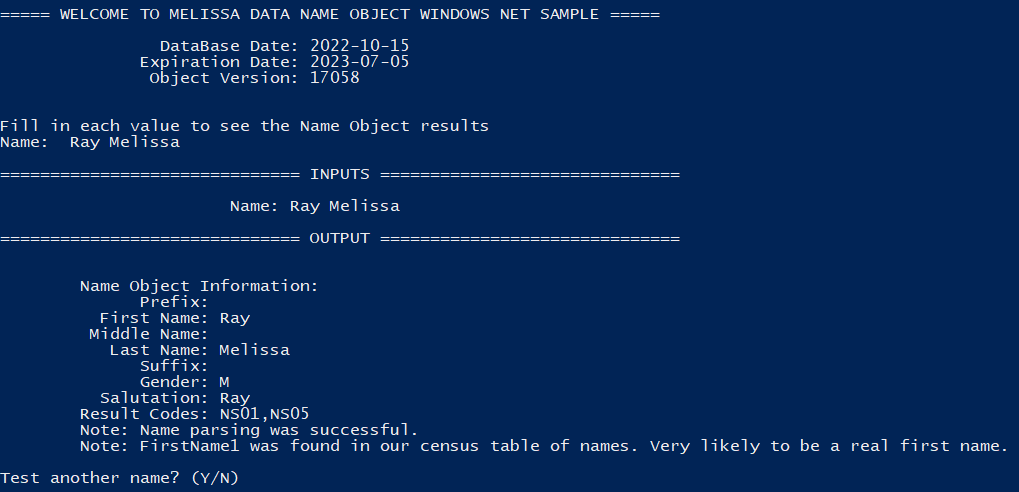
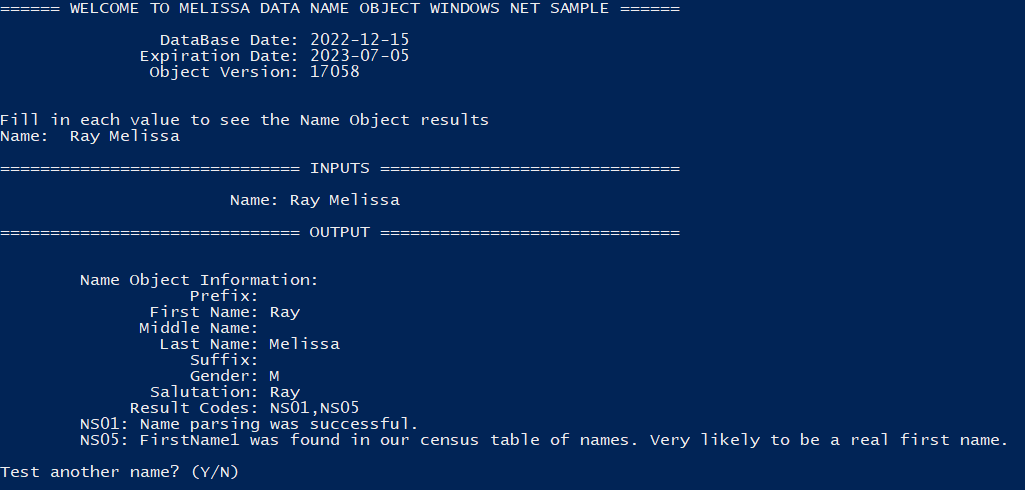
Commit C# Dotnet sample code for Name Object with .NET 7.0

diff --git a/MelissaDataNameObjectWindowsNETSample/Program.cs b/MelissaDataNameObjectWindowsNETSample/Program.cs
@@ -50,7 +50,7 @@ namespace MelissaDataNameObjectWindowsNETSample
 
     static void RunAsConsole(string license, string testName, string dataPath)
     {
-      Console.WriteLine("\n\n===== WELCOME TO MELISSA DATA NAME OBJECT WINDOWS NET SAMPLE =====\n");
+      Console.WriteLine("\n\n====== WELCOME TO MELISSA DATA NAME OBJECT WINDOWS NET SAMPLE ======\n");
 
       NameObject nameObject = new NameObject(license, dataPath);
 
@@ -91,18 +91,18 @@ namespace MelissaDataNameObjectWindowsNETSample
         Console.WriteLine("\n============================== OUTPUT ==============================\n");
         Console.WriteLine("\n\tName Object Information:");
 
-        Console.WriteLine($"\t      Prefix: {nameObject.mdNameObj.GetPrefix()}");
-        Console.WriteLine($"\t  First Name: {nameObject.mdNameObj.GetFirstName()}");
-        Console.WriteLine($"\t Middle Name: {nameObject.mdNameObj.GetMiddleName()}");
-        Console.WriteLine($"\t   Last Name: {nameObject.mdNameObj.GetLastName()}");
-        Console.WriteLine($"\t      Suffix: {nameObject.mdNameObj.GetSuffix()}");
-        Console.WriteLine($"\t      Gender: {nameObject.mdNameObj.GetGender()}");
-        Console.WriteLine($"\t  Salutation: {nameObject.mdNameObj.GetSalutation()}");
-        Console.WriteLine($"\tResult Codes: {dataContainer.ResultCodes}");
+        Console.WriteLine($"\t           Prefix: {nameObject.mdNameObj.GetPrefix()}");
+        Console.WriteLine($"\t       First Name: {nameObject.mdNameObj.GetFirstName()}");
+        Console.WriteLine($"\t      Middle Name: {nameObject.mdNameObj.GetMiddleName()}");
+        Console.WriteLine($"\t        Last Name: {nameObject.mdNameObj.GetLastName()}");
+        Console.WriteLine($"\t           Suffix: {nameObject.mdNameObj.GetSuffix()}");
+        Console.WriteLine($"\t           Gender: {nameObject.mdNameObj.GetGender()}");
+        Console.WriteLine($"\t       Salutation: {nameObject.mdNameObj.GetSalutation()}");
+        Console.WriteLine($"\t     Result Codes: {dataContainer.ResultCodes}");
 
         String[] rs = dataContainer.ResultCodes.Split(',');
         foreach (String r in rs)
-          Console.WriteLine($"        Note: {nameObject.mdNameObj.GetResultCodeDescription(r, mdName.ResultCdDescOpt.ResultCodeDescriptionLong)}");
+          Console.WriteLine($"        {r}: {nameObject.mdNameObj.GetResultCodeDescription(r, mdName.ResultCdDescOpt.ResultCodeDescriptionLong)}");
 
         bool isValid = false;
 
@@ -139,7 +139,6 @@ namespace MelissaDataNameObjectWindowsNETSample
       Console.WriteLine("\n============ THANK YOU FOR USING MELISSA DATA NET OBJECT ===========\n");
     }
   }
-
 
   class NameObject
   {

diff --git a/README.md b/README.md
@@ -21,7 +21,7 @@ And return
 
 ## Tested Environments
 
-- Windows 64-bit .NET 6.0, .NET 5.0, .NET Core 3.1
+- Windows 64-bit .NET 7.0, .NET 6.0, .NET 5.0, .NET Core 3.1
 - Powershell 5.1
 - Melissa data files for 2022-12
 
@@ -39,28 +39,28 @@ This is the c++ code of the Melissa Data Object.
 ## Getting Started
 These instructions will get you a copy of the project up and running on your local machine for development and testing purposes.
 
-This project is compatible with .NET 6.0, .NET 5.0, and .NET Core 3.1. If you would like to run this project for any other version besides .NET 6.0, proceed with the following procedures but check for and download your desired .NET version.
+This project is compatible with .NET 7.0, .NET 6.0, .NET 5.0, and .NET Core 3.1. If you would like to run this project for any other version besides .NET 7.0, proceed with the following procedures but check for and download your desired .NET version.
 
 #### Install the Dotnet Core SDK
-Before starting, make sure that the .NET 6.0 SDK has been correctly installed on your machine (If you have Visual Studio installed, you most likely have it already). If you are unsure, you can check by opening a command prompt window and typing the following:
+Before starting, make sure that the .NET 7.0 SDK has been correctly installed on your machine (If you have Visual Studio installed, you most likely have it already). If you are unsure, you can check by opening a command prompt window and typing the following:
 
 `dotnet --list-sdks`
 
-If the .NET 6.0 SDK is already installed, you should see it in the following list:
+If the .NET 7.0 SDK is already installed, you should see it in the following list:
 
 ![alt text](/screenshots/dotnet_output.PNG)
 
-As long as the above list contains version `6.0.xxx` (underlined in red), then you can skip to the next step. If your list does not contain version 6.0, or you get any kind of error message, then you will need to download and install the .NET 6.0 SDK from the Microsoft website.
+As long as the above list contains version `7.0.xxx` (underlined in red), then you can skip to the next step. If your list does not contain version 7.0, or you get any kind of error message, then you will need to download and install the .NET 7.0 SDK from the Microsoft website.
 
 To download, follow this link: https://dotnet.microsoft.com/en-us/download/dotnet
 
-Select `.NET 6.0` and you will be navigated to the download page.
+Select `.NET 7.0` and you will be navigated to the download page.
 
 Click and download the `x64` SDK installer for your operating system.
 
 (IMPORTANT: Make sure you download the SDK, NOT the runtime. the SDK contains both the runtime as well as the tools needed to build the project.)
 
-![alt text](/screenshots/net6.png)
+![alt text](/screenshots/net7.png)
 
 Once clicked, your web browser will begin downloading an installer for the SDK. Run the installer and follow all of the prompts to complete the installation (your computer may ask you to restart before you can continue). Once all of that is done, you should be able to verify that the SDK is installed with the `dotnet --list-sdks` command.
 
@@ -104,13 +104,14 @@ Melissa Updater is a CLI application allowing the user to update their Melissa a
 
 Depending on your target .NET framework, you may need to configure the powershell script. In order to do this, open up the `MelissaDataNameObjectWindowsNETSample.ps1` for editing, proceed to the bottom of the script where you will find this section of code.
 
-Default set for .NET 6.0
+Default set for .NET 7.0
 ```
-dotnet publish -f="net6.0" -c Release -o $BuildPath MelissaDataNameObjectWindowsNETSample\MelissaDataNameObjectWindowsNETSample.csproj
+dotnet publish -f="net7.0" -c Release -o $BuildPath MelissaDataNameObjectWindowsNETSample\MelissaDataNameObjectWindowsNETSample.csproj
+#dotnet publish -f="net6.0" -c Release -o $BuildPath MelissaDataNameObjectWindowsNETSample\MelissaDataNameObjectWindowsNETSample.csproj
 #dotnet publish -f="net5.0" -c Release -o $BuildPath MelissaDataNameObjectWindowsNETSample\MelissaDataNameObjectWindowsNETSample.csproj
 #dotnet publish -f="netcoreapp3.1" -c Release -o $BuildPath MelissaDataNameObjectWindowsNETSample\MelissaDataNameObjectWindowsNETSample.csproj
 ```
-The target framework is specified with the -f flag found in the command line. If you wish to use any version besides .NET 6.0, please uncomment the line containing that framework and comment out the line containing the .NET 6.0 framework (# to comment).
+The target framework is specified with the -f flag found in the command line. If you wish to use any version besides .NET 7.0, please uncomment the line containing that framework and comment out the line containing the .NET 7.0 framework (# to comment).
 
 ## Run Powershell Script
 
@@ -121,7 +122,7 @@ Parameters:
 - -license (optional): a license string to test the name object
 - -quiet (optional): add to the command if you do not want to get any console output from the Melissa Updater
 
-When you have modified the script to match your data location, let's run the script.There are two modes:
+When you have modified the script to match your data location, let's run the script. There are two modes:
 
 - Interactive 
 
